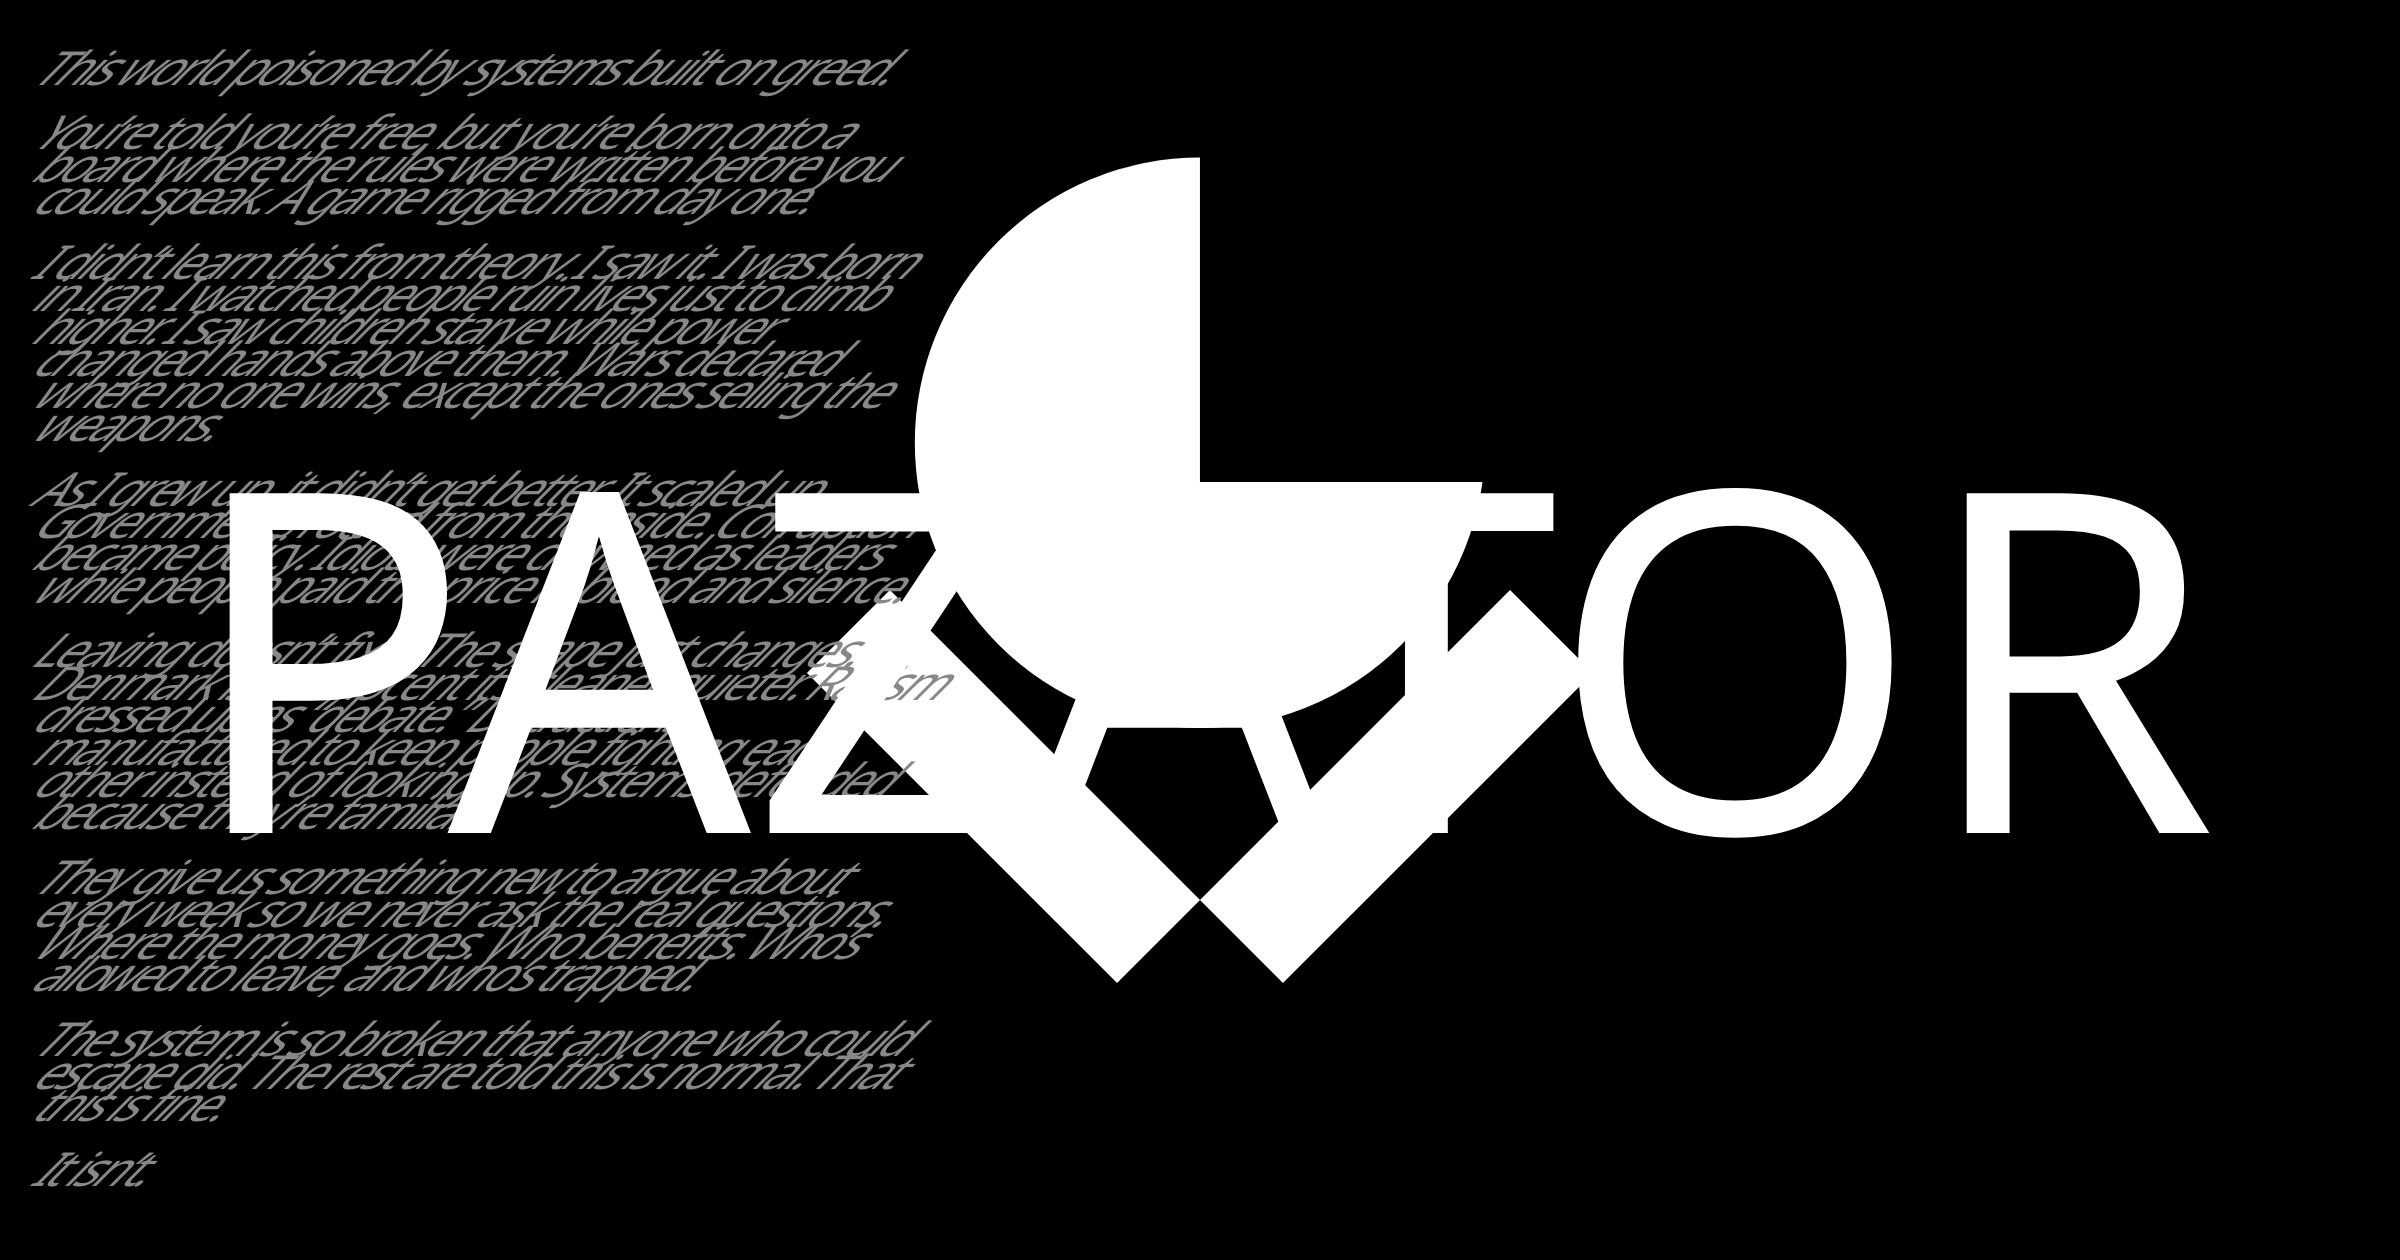
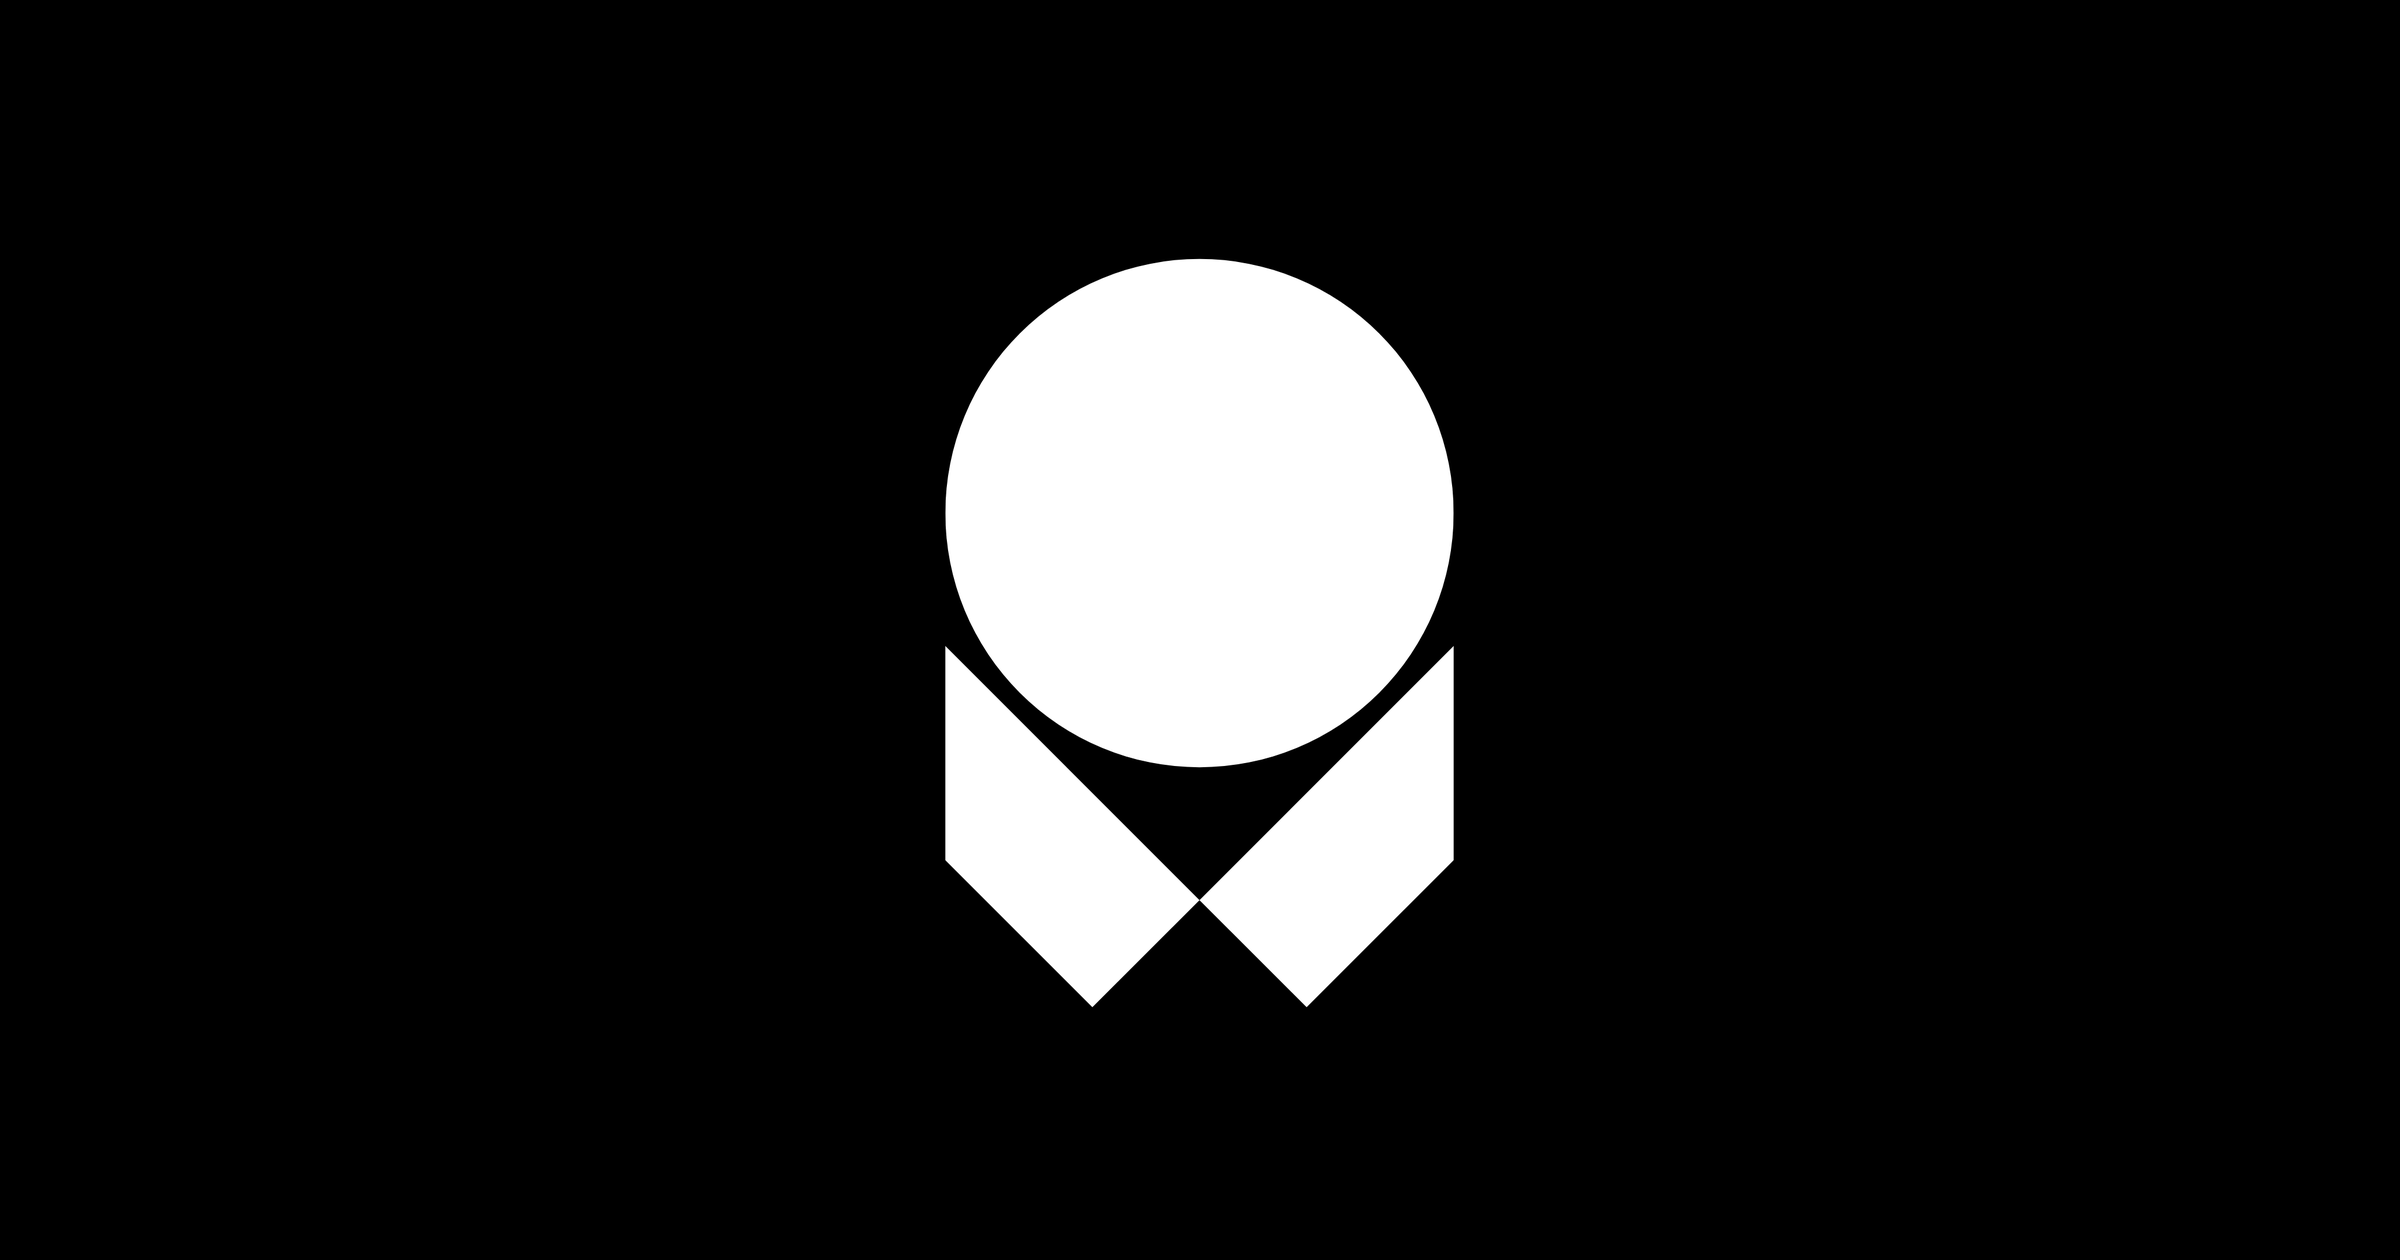
yesir.

Changed region(s): [[0.0, 0.031, 0.9375, 0.9595], [0.4375, 0.5571, 0.5625, 0.65]]

diff --git a/app/index.html b/app/index.html
@@ -4,7 +4,7 @@
 <head>
     <meta charset="UTF-8">
     <meta name="viewport" content="width=device-width, initial-scale=1.0">
-    <link rel="icon" type="image/png" href="./favicon.ico" />
+    <link rel="icon" type="image/x-icon" href="../favicon.ico" />
     <title>Pazator SARPARAST - Mass data container</title>
     <link rel="stylesheet" href="https://cdnjs.cloudflare.com/ajax/libs/font-awesome/6.4.0/css/all.min.css">
     <link rel="stylesheet" href="https://unpkg.com/maplibre-gl@4.7.0/dist/maplibre-gl.css">
@@ -167,7 +167,7 @@
             <i class="fas fa-location-crosshairs"></i>
         </button>
         <div class="logo-card" title="Pazator Logo">
-            <img src="favicon.png" alt="Pazator Logo" id="logoImage">
+            <img src="../logo.png" alt="Pazator Logo" id="logoImage">
             <div class="logo-dropdown-menu" id="logoDropdownMenu">
                 <div class="logo-dropdown-item" id="refreshNodesOption" style="display: none;">
                     <i class="fas fa-sync"></i>
@@ -788,29 +788,34 @@
         <div class="tab-content" id="tracker-tab">
             <div class="tracker-tab">
                 <div class="tracker-panel">
-                    <div class="tracker-sidebar" id="trackerSidebar">
-                        <div class="tracker-sidebar-header">
-                            <h3>Shahed Tracker</h3>
-                            <p>Live locations from the secure tracker</p>
-                            <button id="trackerConfigureBtn" class="tracker-config-btn">Configure tracker
-                                server</button>
-                        </div>
-                        <div class="tracker-sync-actions">
-                            <label for="trackerHumanSelect">Connect Pazator person</label>
-                            <div class="tracker-select-row">
-                                <select id="trackerHumanSelect">
-                                    <option value="">Select a human</option>
-                                </select>
-                                <button class="btn btn-primary" id="trackerConnectBtn">Show</button>
+                        <div class="tracker-sidebar" id="trackerSidebar">
+                            <div class="tracker-sidebar-header">
+                                <h3>Shahed Tracker</h3>
+                                <p>Live locations from the secure tracker</p>
+                            <button id="trackerConfigureBtn" class="btn btn-secondary tracker-config-btn">Configure
+                                tracker server</button>
                             </div>
+                            <div class="tracker-sync-actions">
+                                <label for="trackerHumanSelect">Connect Pazator person</label>
+                                <div class="tracker-select-row">
+                                    <select id="trackerHumanSelect">
+                                        <option value="">Select a human</option>
+                                    </select>
+                                    <button class="btn btn-primary" id="trackerConnectBtn">Show</button>
+                                </div>
                             <button class="btn btn-secondary" id="trackerRefreshBtn" style="width: 100%;">Refresh
                                 tracker</button>
-                        </div>
-                        <div class="tracker-people-list" id="trackerPeopleList">
-                            <div class="tracker-placeholder">Tracker data will appear here.</div>
-                        </div>
-                        <div class="tracker-location-info" id="trackerLocationInfo">
-                            Last known position will appear here once you select someone.
+                            </div>
+                            <div class="tracker-search">
+                                <label for="trackerPeopleSearch">Search tracker people</label>
+                                <input id="trackerPeopleSearch" class="form-control" type="search"
+                                    placeholder="Search…" autocomplete="off" spellcheck="false">
+                            </div>
+                            <div class="tracker-people-list" id="trackerPeopleList">
+                                <div class="tracker-placeholder">Tracker data will appear here.</div>
+                            </div>
+                            <div class="tracker-location-info" id="trackerLocationInfo">
+                                Last known position will appear here once you select someone.
                         </div>
                         <div class="tracker-sidebar-footer">
                             <button class="btn btn-danger" id="trackerPurgeBtn"><i

diff --git a/index.html b/index.html
@@ -12,7 +12,7 @@
     <meta name="author" content="AIX.">
     <meta name="theme-color" content="#ffffff">
 
-    <link rel="icon" type="image/png" href="./favicon.ico" />
+    <link rel="icon" type="image/x-icon" href="./favicon.ico" />
 
     <meta property="og:title" content="Pazator – Mass Data Intelligence">
     <meta property="og:description"
@@ -179,6 +179,24 @@
             display: flex;
             flex-direction: column;
             justify-content: space-between;
+            position: relative;
+            overflow: hidden;
+        }
+
+        .hero-logo {
+            position: absolute;
+            top: 48px;
+            right: 48px;
+            width: 176px;
+            height: 176px;
+            opacity: 1;
+            transform: none;
+            filter: none;
+            transition: transform 0.45s cubic-bezier(0.16, 1, 0.3, 1);
+        }
+
+        .hero-logo:hover {
+            transform: scale(1.02);
         }
 
         .hero-wordmark {
@@ -633,6 +651,14 @@
                 border-top: 1px solid rgba(255, 255, 255, 0.1)
             }
 
+            .hero-logo {
+                top: 22px;
+                right: 22px;
+                width: 128px;
+                height: 128px;
+                opacity: 1;
+            }
+
             .hero-stats {
                 grid-template-columns: 1fr 1fr
             }
@@ -699,6 +725,8 @@
 
         <div class="hero-grid">
             <div class="hero-left">
+                <img class="hero-logo" src="./logo.png" alt="Pazator logo" width="176" height="176"
+                    decoding="async" fetchpriority="high">
                 <div>
                     <div class="hero-wordmark" id="wm">
                         <span class="wm-line">PAZA</span>

diff --git a/app/stylez.css b/app/stylez.css
@@ -383,8 +383,8 @@
         width: 24px;
         height: 24px;
         background: #fff;
-        mask: url('favicon.png') no-repeat center;
-        -webkit-mask: url('favicon.png') no-repeat center;
+        mask: url('../logo.png') no-repeat center;
+        -webkit-mask: url('../logo.png') no-repeat center;
         mask-size: contain;
         -webkit-mask-size: contain;
         transition: transform 0.3s ease;